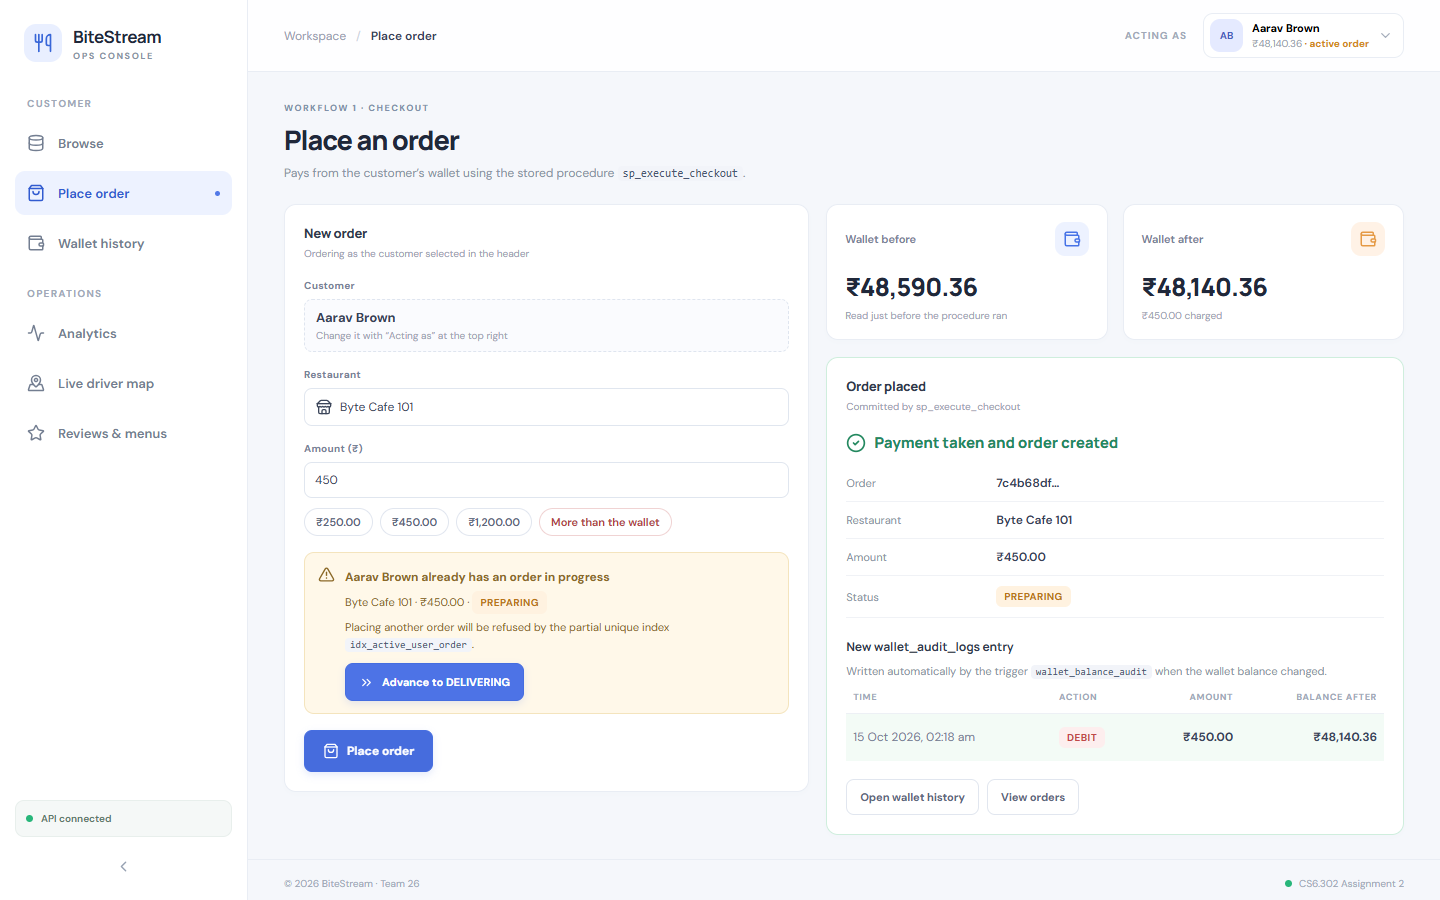
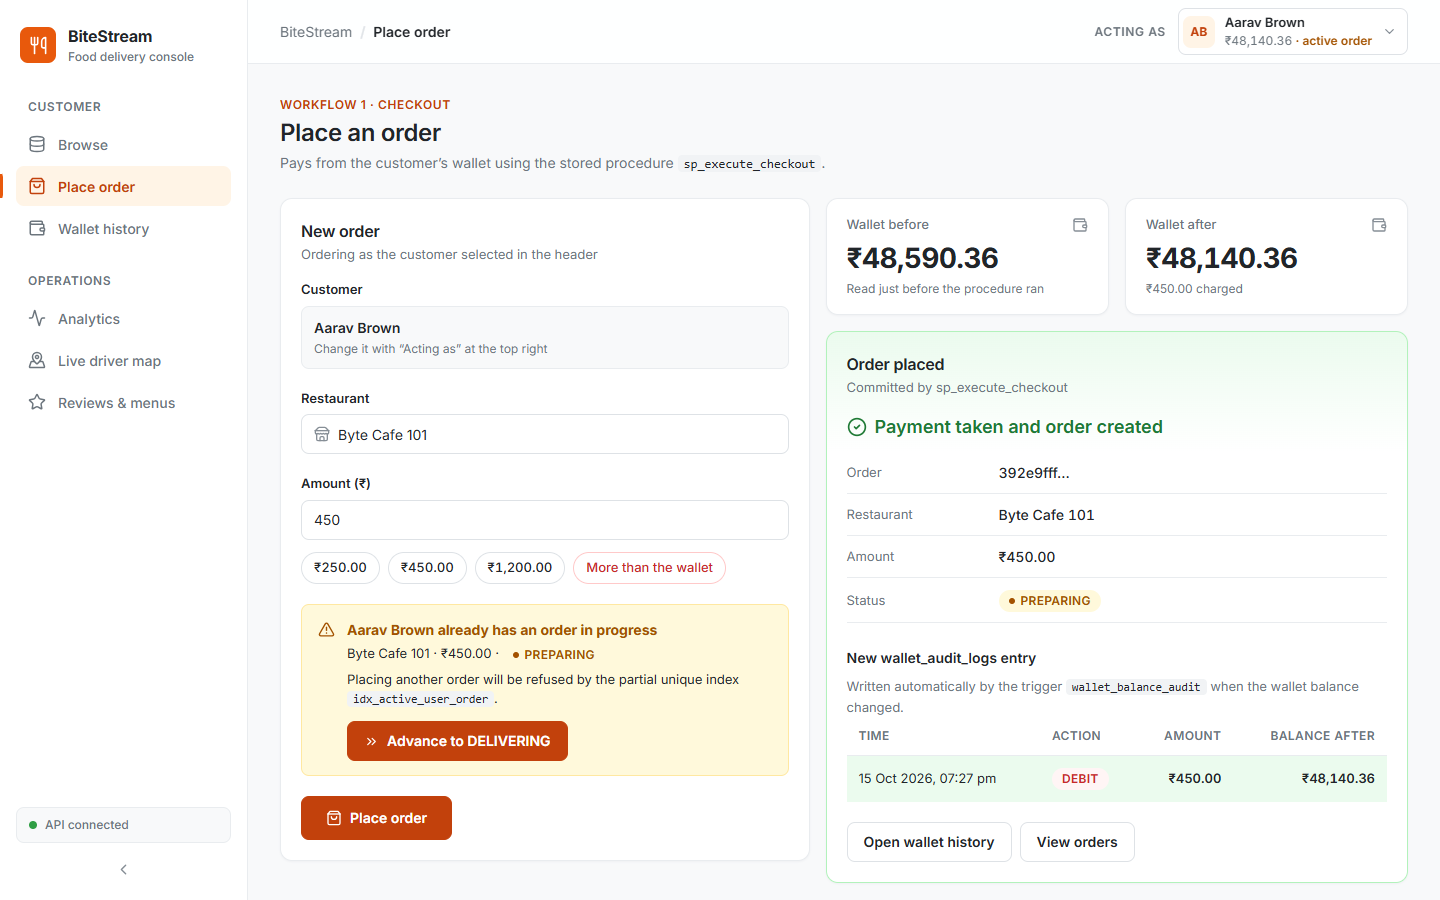
docs: style guide, change log, handover rows, screenshots for UI upgrade (Nisarg)
- style_guide.md rewritten for the token system (contrast-adjusted palette)
- README: screen descriptions, screenshot gallery, 23 tests, change-log rows
  for sql/05, mongo/02 and mongo_seeder.py, Nisarg's contribution
- handover_note: rows #5, #7, #10, #12 done; #6 (ping simulator) not done
- api_endpoints.md updated to the new parameters and response shapes
- 9 fresh screenshots (1440 px and 390 px); analytics grid top-aligned,
  map opens one zoom level closer

diff --git a/web/src/pages/DriverMap.jsx b/web/src/pages/DriverMap.jsx
@@ -176,7 +176,7 @@ export default function DriverMap() {
 
         <Panel title="Map" subtitle="OpenStreetMap · click anywhere to move the origin" className="leaflet-panel">
           <div className="leaflet-frame">
-            <MapContainer center={center} zoom={13} scrollWheelZoom className="leaflet-map" ref={setMap}>
+            <MapContainer center={center} zoom={14} scrollWheelZoom className="leaflet-map" ref={setMap}>
               <Recenter center={center} />
               <PickOnClick onPick={({ lat, lng }) => setOrigin({ lat, lng, label: 'pinned location', restaurant: null })} />
               <TileLayer

diff --git a/web/src/styles.css b/web/src/styles.css
@@ -165,7 +165,7 @@ h1, h2, h3 { color: var(--text); }
 }
 .stat-detail { margin-top: 4px; font-size: var(--fs-caption); color: var(--text-muted); }
 
-.analytics-grid { display: grid; grid-template-columns: minmax(0, 1.4fr) minmax(0, 1fr); gap: var(--space-2); margin-bottom: var(--space-2); }
+.analytics-grid { display: grid; grid-template-columns: minmax(0, 1.4fr) minmax(0, 1fr); gap: var(--space-2); margin-bottom: var(--space-2); align-items: start; }
 .panel {
   min-width: 0; padding: 20px;
   background: var(--surface); border: 1px solid var(--border); border-radius: var(--radius-lg); box-shadow: var(--shadow);

diff --git a/README.md b/README.md
@@ -33,15 +33,23 @@ A web front end for the inherited **BiteStream** food-delivery backend (PostgreS
 | 1 | **Browse** | `#/browse` | Customers, restaurants and orders with server-side pagination, search, filters and a detail drawer per record; "Advance status" on orders |
 | 2 | **Place order** (Workflow 1) | `#/order` | Calls `sp_execute_checkout`. Shows the wallet before/after, a friendly reason when the order is refused (insufficient balance, or an order already in progress) and the new `wallet_audit_logs` row written by the trigger |
 | 3 | **Wallet history** (Audit) | `#/wallet` | Read-only `wallet_audit_logs` for one customer, with a date filter, opening/closing totals and a running balance |
-| 4 | **Analytics** (Workflow 2 + materialized view) | `#/analytics` | 7-day moving-average revenue, `DENSE_RANK()` ranking table, materialized-view summary with refresh |
-| 5 | **Live driver map** (Workflow 3) | `#/map` | `$geoNear` around a selectable origin, 5 km radius, list sorted by distance, polling every 10 s |
-| 6 | **Reviews & menus** (Workflow 4) | `#/reviews` | `$facet` rating distribution, top tags, average rating, plus the `Menus` catalog |
+| 4 | **Analytics** (Workflow 2 + materialized view) | `#/analytics` | Per-restaurant chart of 30 days of daily revenue with the 7-day moving average; paginated `DENSE_RANK()` ranking (click a row to chart it); materialized-view totals with a stored "last refreshed" time and a Refresh button |
+| 5 | **Live driver map** (Workflow 3) | `#/map` | `$geoNear` around a real restaurant (or any point clicked on the map), 5 km radius, one row per driver sorted by distance, polling every 10 s |
+| 6 | **Reviews & menus** (Workflow 4) | `#/reviews` | `$facet` rating distribution, top tags and average rating for one restaurant or all of them, plus that restaurant's `Menus` document as an accordion (category → items → add-ons) |
 
 **Demo user switching:** the header's **"Acting as"** picker chooses the customer (no login). It shows their wallet balance and whether they have an active order, and the choice is remembered across reloads.
 
+**Design:** one token-based design system (`web/src/theme.css`) following [docs/design/style_guide.md](docs/design/style_guide.md): warm orange brand, Inter, WCAG-AA text contrast, and a burger drawer on phones.
+
 ![Place order: success with the trigger-written audit row](docs/screenshots/place_order_desktop.png)
 
-<img src="docs/screenshots/browse_mobile.png" alt="Browse on a phone" width="260">
+| Analytics | Live driver map |
+|---|---|
+| ![Analytics](docs/screenshots/analytics_desktop.png) | ![Live driver map](docs/screenshots/driver_map_desktop.png) |
+| **Reviews & menus** | **Wallet history** |
+| ![Reviews & menus](docs/screenshots/reviews_menus_desktop.png) | ![Wallet history](docs/screenshots/wallet_history_desktop.png) |
+
+<img src="docs/screenshots/browse_mobile.png" alt="Browse on a phone" width="220"> <img src="docs/screenshots/analytics_mobile.png" alt="Analytics on a phone" width="220"> <img src="docs/screenshots/nav_drawer_mobile.png" alt="Navigation drawer on a phone" width="220">
 
 ## 2. Running it
 
@@ -139,7 +147,7 @@ Then start the API and web app as in steps 3–4 (`DATABASE_URL=postgresql://pos
 | Layer | Choice | Why |
 |---|---|---|
 | Front end | **React 18 + Vite** | Component-based screens, instant dev server, nothing to configure |
-| Styling | **Plain CSS** (`styles.css`, `screens.css`) | One small, consistent design system without a UI framework to learn; easy to restyle from the Figma design |
+| Styling | **Plain CSS with design tokens** (`theme.css` → `styles.css`, `screens.css`; `theme.js` for charts and the map) | One small, consistent design system without a UI framework to learn; every colour, size and radius comes from one token file |
 | Charts | **Recharts** | Simple React API for the line/bar charts |
 | Map | **Leaflet + react-leaflet + OpenStreetMap tiles** | Free, no API key or billing account (Google Maps / Mapbox need one) |
 | Icons | **lucide-react** | Consistent, tree-shaken SVG icons |
@@ -177,13 +185,16 @@ cd api
 npm test
 ```
 
-There are 14 integration tests in `api/test/transaction.test.js`. They run against the seeded database, because the behaviour under test lives in the database:
+There are 23 integration tests: 14 in `api/test/transaction.test.js` and 9 in `api/test/analytics_map_reviews.test.js`. They run against the seeded PostgreSQL and MongoDB databases, because the behaviour under test lives in the databases:
 
 | Area | Cases |
 |---|---|
 | Workflow 1 | success (balance debited, DEBIT audit row from the trigger); second active order blocked (409, wallet and audit unchanged); advance PREPARING → DELIVERING → DELIVERED then re-order succeeds; insufficient balance (422, nothing charged); zero/negative/malformed amounts (400); the procedure itself rejects negatives; unknown restaurant/customer (404) |
 | Browse | server-side pagination, page-size cap, search + filter |
 | Audit | running balance equals `balance_after` for every row; date range filtering; inclusive end date; inverted range rejected |
+| Workflow 2 | the last day's 7-day average equals an independent SQL average of that day and the 6 before it; rankings paginated and `DENSE_RANK` never decreases; `REFRESH` moves `refreshed_at` forward; malformed (400) and unknown (404) restaurant |
+| Workflow 3 | one row per driver, sorted by distance, all within 5 km, at most 20; a far-away origin returns an empty list |
+| Workflow 4 | rating counts add up to the review total; the restaurant filter narrows the `$facet`; menu found / 404 `MENU_NOT_FOUND` / 400 for a malformed id |
 
 We focused the tests on the transaction path because it is where money moves and where the inherited code was broken. The tests place a few real orders for one customer and deliver them afterwards, so the data stays consistent.
 
@@ -217,6 +228,10 @@ Every change is marked `[Team 26]` in the code. The full reasoning and evidence 
 | `sql/04_stored_procedures.sql` | Reject `amount <= 0` (SQLSTATE 22023); `User does not exist` uses SQLSTATE P0002 | A negative amount **credited** the wallet |
 | `sql/07_fixes_transactions.sql` (new) | `sp_advance_order_status`; indexes `idx_wallet_audit_user_ts`, `idx_orders_status_created_at` | Status changes needed by the PDF; audit/browse queries no longer scan the whole table |
 | `data_generation/postgres_seeder.py` | Restaurants moved to the driver-ping area; ~20% active orders; consistent wallet chains; `TRUNCATE` before insert; refresh the materialized view after seeding | Map returned 0 drivers; 96.8% of users could not order; audit trail was random; re-seeding doubled the data; the view was empty |
+| `sql/05_materialized_views.sql` | `NOW() AS refreshed_at` column in `restaurant_completed_revenue` | PostgreSQL stores no refresh time; the Analytics screen must show "last refreshed" |
+| `mongo/02_workflow3_geonear.js` | After `$geoNear`: group pings per driver (latest ping and its distance), sort by distance, `$limit: 20` (was `$limit: 1`) | Returned one ping; a list repeated the same driver (62,770 pings from 7,038 drivers within 5 km) |
+| `data_generation/mongo_seeder.py` | Reads restaurants from PostgreSQL: `Reviews`/`Menus` use the restaurant UUID; one menu per restaurant with optional add-ons, dietary tags, spice level and combos; ratings and tags vary by restaurant; `random.seed(42)`. Driver pings unchanged | Integer ids 1–100 matched no restaurant and there were only 2 menus; uniform random reviews made every chart bar equal |
+| `sql/06_window_analytics.sql` | Unchanged. The API reuses steps 1–4 for one restaurant's 30-day series and the full query (paginated) for the ranking | The original returns only the latest day per restaurant, which cannot be charted over time |
 
 ## 8. Project structure
 
@@ -245,6 +260,9 @@ Every change is marked `[Team 26]` in the code. The full reasoning and evidence 
         ├── components/       # Sidebar, ActorPicker, RestaurantPicker, AdvanceButton, Panel, StatCard, ui.jsx
         ├── context/          # "Acting as" customer
         ├── services/api.js   # API client
+        ├── theme.css         # design tokens (colours, type, spacing); theme.js mirrors colours for charts/map
+        ├── styles.css        # shell, shared components, Analytics / Map / Reviews
+        ├── screens.css       # Browse, Place order, Wallet history
         └── router.js         # hash routing
 ```
 
@@ -254,7 +272,7 @@ Team 26. The allocation sheet lists four members; **Jyotiraditya Kumar is no lon
 
 | Member | Design | Code | Documentation |
 |---|---|---|---|
-| **Nisarg Bhojani** | Users, wireframes, Figma design system, visual QA | `TODO` | Design docs, screenshots, demo video |
+| **Nisarg Bhojani** | Users, wireframes, Figma design system, visual QA | Design-token system (`theme.css`, `theme.js`) and restyle of all six screens (`styles.css`, `screens.css`), phone navigation drawer; UI-upgrade data fixes: per-restaurant 7-day series and stored `refreshed_at` (Analytics), one row per driver around real restaurants (Map), Mongo seeder linked to PostgreSQL restaurants and menu accordion (Reviews & menus), with 9 integration tests | Style guide, [UI upgrade spec](docs/design/2026-10-15-ui-upgrade-design.md) and [plan](docs/design/2026-10-15-ui-upgrade-plan.md), screenshots, demo video |
 | **Kodavali Sai** | `TODO` | API + screens: Analytics, Live driver map, Reviews & menus | `TODO` |
 | **Mohit Tripathi** | Wireframes for Browse / Place order / Wallet | Inherited-DB fixes (checkout procedure, status procedure, indexes, seeder), API + screens: Browse, Place order, Wallet history, "Acting as" picker, tests | Handover note, API endpoints, README |
 | Jyotiraditya Kumar | – | – | – (left the college) |

diff --git a/docs/design/style_guide.md b/docs/design/style_guide.md
@@ -1,47 +1,87 @@
 # Style Guide
 
-Built on **Mantine** components with a custom theme so every screen looks the same.
+**Owner:** Nisarg Bhojani. The design system is plain CSS built on design tokens:
+
+- **`web/src/theme.css`** holds every token as a CSS custom property, and is the single source of truth.
+- **`web/src/theme.js`** mirrors the colour values for Recharts and Leaflet, which cannot read CSS variables.
+- **`web/src/styles.css`** (shell, shared components, Analytics/Map/Reviews) and **`web/src/screens.css`** (Browse, Place order, Wallet) use only the tokens.
+
+Mantine was planned at first and dropped: plain CSS kept the bundle small and needed no component rewrite. The UI upgrade spec is [2026-10-15-ui-upgrade-design.md](2026-10-15-ui-upgrade-design.md).
 
 ## Colours
 
+The palette follows Mantine's colour scale. Three values were adjusted so text passes WCAG AA (4.5:1).
+
 | Token | Hex | Used for |
 |---|---|---|
-| `primary` | `#E8590C` (orange 8) | Primary buttons, active nav item, chart main series |
-| `primary-light` | `#FFF4E6` | Selected rows, highlighted cards |
-| `success` | `#2F9E44` | Successful checkout, CREDIT, DELIVERED badge |
-| `danger` | `#E03131` | Errors, DEBIT, insufficient balance |
-| `warning` | `#F08C00` | PREPARING badge, "already has active order" |
-| `info` | `#1971C2` | DELIVERING badge, map origin marker |
-| `text` | `#212529` | Body text |
-| `muted` | `#868E96` | Secondary text, table captions |
-| `surface` | `#FFFFFF` / `#F8F9FA` | Cards / page background |
+| `--brand` | `#E8590C` | Accent fills: active nav marker, chart series, map origin and radius, focus ring |
+| `--brand-strong` | `#C2410C` | Primary buttons and orange text (5.2:1 on white; `#E8590C` is only 3.6:1) |
+| `--brand-soft` | `#FFF4E6` | Active nav item, selected table row, avatar |
+| `--success` / `-strong` / `-soft` | `#2F9E44` / `#1F7A35` / `#EBFBEE` | CREDIT, DELIVERED, successful checkout, dietary tags |
+| `--danger` / `-strong` / `-soft` | `#E03131` / `#C92A2A` / `#FFF5F5` | DEBIT, errors, insufficient balance, spice level |
+| `--warning` / `-strong` / `-soft` | `#F08C00` / `#A35200` / `#FFF9DB` | PREPARING, "already has an active order", star ratings |
+| `--info` / `-strong` / `-soft` | `#1971C2` / `#1864AB` / `#E7F5FF` | DELIVERING, drivers on the map |
+| `--text` | `#212529` | Body text |
+| `--text-muted` | `#6C757D` | Secondary text (4.7:1; the first draft's `#868E96` is 3.3:1 and failed) |
+| `--text-faint` | `#868E96` | Icons and decoration only, never text |
+| `--surface` / `--page` | `#FFFFFF` / `#F8F9FA` | Cards / page background |
+| `--border` | `#E9ECEF` | Card, table and input borders |
 
-Order status badges: PREPARING = warning, DELIVERING = info, DELIVERED = success.
+**Status pairs:** each status uses its `-strong` colour for text on its `-soft` background, so every badge passes 4.5:1.
+
+- PREPARING = warning
+- DELIVERING = info
+- DELIVERED = success
+- DEBIT = danger
+- CREDIT = success
 
 ## Typography
 
-- Font: **Inter** (Google Fonts, free), fallback `system-ui, sans-serif`.
-- Sizes: page title 24/600, section title 18/600, body 14/400, caption 12/400.
-- Money is always right-aligned, tabular figures, formatted `₹1,234.50`.
+- **Font:** Inter (Google Fonts, free), fallback `system-ui, sans-serif`.
+- **Scale:**
+  - page title 24/600
+  - section title 18/600
+  - card title 16/600
+  - body 14/400
+  - table 13/400
+  - caption 12/500
+  - nothing smaller than 12 px
+- **Stat values:** 28/700 (22 on phones).
+- **Money:** `tabular-nums`, right-aligned in tables, formatted `₹1,234.50` (Indian digit grouping via `en-IN`).
 
 ## Spacing and shape
 
-- 8 px spacing grid (8 / 16 / 24 / 32).
-- Card radius 8 px, light border `#E9ECEF`, no heavy shadows.
-- Max content width 1200 px; on phones (< 768 px) the sidebar collapses into a burger menu and tables scroll horizontally.
+- **Spacing:** 8 px grid (`--space-1` to `--space-4` = 8/16/24/32).
+- **Radius:** `--radius` 8 px (inputs, buttons, badges) and `--radius-lg` 12 px (cards).
+- **Borders and shadows:** 1 px `--border`, almost no shadow. Only menus and drawers float, with `--shadow-pop`.
+- **Content width:** max 1440 px. Form controls are 40 px tall. Every focusable element shows an orange focus ring.
+
+## Identity
+
+- **Logo:** a solid orange square holding a utensils icon, plus the "BiteStream" wordmark in Inter 600 with the tagline "Food delivery console".
+- **Charts:** orange bars and lines on light grey gridlines.
+- **Map:** an orange origin pin with an orange dashed 5 km circle; drivers are blue dots.
+- **Stat cards:** a small monochrome icon instead of coloured tiles.
+
+## Responsive
+
+| Width | Layout |
+|---|---|
+| ≥ 1200 px | Sidebar (248 px) + content; 4 stat cards per row; split layouts side by side |
+| 1024–1199 px | 2 stat cards per row; chart and table stack |
+| 768–1023 px | Sidebar becomes a 76 px icon rail; the map list moves below the map |
+| < 768 px | Sidebar hidden. A top bar has a burger button that opens the navigation as a drawer (Esc or a backdrop click closes it). Cards stack, tables scroll sideways, segmented tabs fill the width. No horizontal page scroll at 390 px. |
 
 ## Reusable components
 
-| Component | Purpose |
-|---|---|
-| `AppShell` (header + sidebar) | Navigation, role switch, actor picker, API health dot |
-| `ActorPicker` | Searchable select of users; shows wallet balance and an "active order" badge |
-| `DataTable` | Server-side paginated table with search box, column filters, row click → detail drawer |
-| `DetailDrawer` | Right-side panel showing one record |
-| `StatCard` | Big number + label (+ optional delta) |
-| `StatusBadge` | Coloured order status |
-| `MoneyText` | Formatted currency, green/red for credit/debit |
-| `LoadingState` | Skeleton rows/cards (never a blank page) |
-| `EmptyState` | Icon + message + optional action ("No orders match these filters") |
-| `ErrorState` | Message + "Try again" button; friendly text from API `error.message` |
-| `ChartCard` | Card wrapper with title, subtitle and loading/empty/error handling for charts |
+| Component | File | Purpose |
+|---|---|---|
+| App shell, `Sidebar` | `App.jsx`, `components/Sidebar.jsx` | Navigation, brand, API status, phone drawer |
+| `ActorPicker` | `components/ActorPicker.jsx` | "Acting as" customer with wallet balance and active-order flag |
+| `RestaurantPicker` | `components/RestaurantPicker.jsx` | Searchable restaurant select used on Place order, Analytics, Map and Reviews |
+| `Panel`, `StatCard` | `components/Panel.jsx`, `components/StatCard.jsx` | Card with heading; big number + label |
+| `StatusBadge`, `ActionBadge` | `components/ui.jsx` | Order status and DEBIT/CREDIT pills |
+| `Pagination`, `SkeletonRows`, `Drawer`, `DetailList` | `components/ui.jsx` | Server-side paging, loading rows, record detail |
+| `EmptyState`, `ErrorBanner` | `components/ui.jsx` | Never a blank page; friendly error with Retry |
+| Segmented control | `.tabs` / `.tab` | Browse entity tabs, Reviews scope |
+| Menu accordion | `.menu-accordion` (Reviews) | Category → items → add-ons; optional fields only when present |

diff --git a/docs/api_endpoints.md b/docs/api_endpoints.md
@@ -86,16 +86,16 @@ Reads the wallet balance, runs `CALL sp_execute_checkout($1, $2, $3)` as a **pla
 
 | Method & path | Returns | DB object |
 |---|---|---|
-| `GET /analytics/moving-average` | `{ data: [ { revenue_date, moving_average_7_day } ] }` | Workflow 2 window query (`sql/06_window_analytics.sql`) |
-| `GET /analytics/rankings` | `{ data: [ { restaurant_id, restaurant_name, order_date, daily_revenue, moving_average_7_day, revenue_rank } ] }` | Workflow 2 query with `DENSE_RANK()` |
-| `GET /analytics/summary` | `{ data: { total_revenue, orders_processed, restaurants, average_order_value, last_refreshed } }` | `restaurant_completed_revenue` |
-| `POST /analytics/refresh` | `{ success, lastRefreshed }` | `CALL refresh_restaurant_completed_revenue()` (`REFRESH … CONCURRENTLY`) |
+| `GET /analytics/moving-average?restaurantId=<uuid>` | `{ data: [ { order_date: 'YYYY-MM-DD', daily_revenue, moving_average_7_day } ] (last 30 days), restaurant: { id, name } }`; 400 `INVALID_ID`, 404 `RESTAURANT_NOT_FOUND` | Workflow 2 steps 1–4 (`sql/06_window_analytics.sql`) for one restaurant |
+| `GET /analytics/rankings?page=&pageSize=` | `{ data: [ { restaurant_id, restaurant_name, order_date, daily_revenue, moving_average_7_day, revenue_rank } ], page, pageSize, total }` | Workflow 2 query with `DENSE_RANK()`, paginated |
+| `GET /analytics/summary` | `{ data: { total_revenue, orders_processed, restaurants, average_order_value, refreshed_at } }` | `restaurant_completed_revenue` (`refreshed_at` column) |
+| `POST /analytics/refresh` | `{ data: { refreshed_at, duration_ms } }` | `CALL refresh_restaurant_completed_revenue()` (`REFRESH … CONCURRENTLY`) |
 
 ## 6. Map — Workflow 3 (`api/src/routes/map.js`)
 
 | Method & path | Query | Returns | DB object |
 |---|---|---|---|
-| `GET /map/nearby` | `lat`, `lng`, `radiusKm` (≤ 5) | `{ origin, radiusKm, data: [ { driver_id, active, location, distanceMeters, created_at } ] }` sorted by distance | MongoDB `DriverPings` `$geoNear` (`2dsphere`), `query: { active: true }` |
+| `GET /map/nearby` | `lat`, `lng`, `radiusKm` (≤ 5) | `{ origin, radiusKm, data: [ { driver_id, location, distanceMeters, created_at } ] }`: one row per driver (latest ping), nearest first, at most 20 | MongoDB `DriverPings` `$geoNear` (`2dsphere`), `query: { active: true }` |
 
 The web app polls this every 10 s so new pings appear without a page reload.
 
@@ -103,8 +103,8 @@ The web app polls this every 10 s so new pings appear without a page reload.
 
 | Method & path | Returns | DB object |
 |---|---|---|
-| `GET /reviews/analytics` | `{ data: { averageRating, totalReviews, distribution[], topTags[], restaurants[] } }` | MongoDB `Reviews` `$facet` |
-| `GET /reviews/menus` | `{ data: [ menu documents ] }` | MongoDB `Menus` |
+| `GET /reviews/analytics?restaurantId=` (optional) | `{ data: { averageRating, totalReviews, distribution[], topTags[], restaurants[] } }`; 400 `INVALID_ID` | MongoDB `Reviews` `$facet` (`$match` on `restaurant_id` first when given) |
+| `GET /reviews/menus?restaurantId=<uuid>` | `{ data: menuDocument }`; 404 `MENU_NOT_FOUND`, 400 `INVALID_ID`. Without `restaurantId`: `{ data: [ up to 100 menus ] }` | MongoDB `Menus` |
 
 ## 8. Misc
 

diff --git a/docs/handover_note.md b/docs/handover_note.md
@@ -43,14 +43,14 @@ Every change is marked `[Team 26]` in the code and listed in the README change l
 | Reject `p_total_amount <= 0` inside the procedure (SQLSTATE 22023) and in the API | `sql/04_stored_procedures.sql`, `api/src/routes/checkout.js` | #2 | ✅ Done, verified |
 | Map SQLSTATE `P0001` / `23505` / `23503` / `P0002` / `55000` to friendly API errors | `api/src/errors.js` | #3 | ✅ Done, verified |
 | Restaurants seeded inside the driver-ping area (lat 17.36–17.46, lng 78.33–78.43) | `data_generation/postgres_seeder.py` | #4 | ✅ Done (PostgreSQL side) |
-| Seed `Menus`/`Reviews` with PostgreSQL restaurant UUIDs | `data_generation/mongo_seeder.py` | #5 | ⏳ Pending (Sai) |
-| Ping simulator so the map is not emptied by the 2-hour TTL | `data_generation/` or `api/` | #6 | ⏳ Pending (Sai) |
-| `$geoNear` → one row per driver → sort by distance | `mongo/02_workflow3_geonear.js` + `api/src/routes/map.js` | #7 | ⏳ Pending (Sai) |
+| Seed `Menus`/`Reviews` with PostgreSQL restaurant UUIDs | `data_generation/mongo_seeder.py` | #5 | ✅ Done, verified: every restaurant has a menu; reviews filter per restaurant |
+| Ping simulator so the map is not emptied by the 2-hour TTL | `data_generation/` or `api/` | #6 | ⏳ Not done: re-run `mongo_seeder.py` before a demo if the map is empty |
+| `$geoNear` → one row per driver → sort by distance | `mongo/02_workflow3_geonear.js` + `api/src/routes/map.js` | #7 | ✅ Done, verified: 20 distinct drivers, sorted, ≤ 5 km |
 | New `sp_advance_order_status(order_id)`; seeder keeps only the newest order of ~20% of users active (2,069 of 10,000) | `sql/07_fixes_transactions.sql`, seeder | #8, #11 | ✅ Done, verified |
 | Audit logs generated as a consistent chain per user (orders become DEBITs, plus top-up CREDITs); wallet = end of chain | `data_generation/postgres_seeder.py` | #9 | ✅ Done: 10,000/10,000 wallets match, 0 chain breaks |
 | Materialized view refreshed at the end of seeding | `data_generation/postgres_seeder.py` | #10 (empty MV) | ✅ Done |
-| "Last refreshed" timestamp stored in the database | `sql/05_materialized_views.sql` | #10 (timestamp) | ⏳ Pending (Sai) |
-| Per-restaurant 7-day moving-average series | `sql/06_window_analytics.sql` + `api/src/routes/analytics.js` | #12 | ⏳ Pending (Sai) |
+| "Last refreshed" timestamp stored in the database | `sql/05_materialized_views.sql` | #10 (timestamp) | ✅ Done, verified: `refreshed_at` column, moves forward on refresh |
+| Per-restaurant 7-day moving-average series | `api/src/routes/analytics.js` (reuses `sql/06` steps 1–4 unchanged) | #12 | ✅ Done, verified: matches an independent 7-day average |
 | `idx_wallet_audit_user_ts` on `wallet_audit_logs(user_id, timestamp DESC)` and `idx_orders_status_created_at` | `sql/07_fixes_transactions.sql` | #13 | ✅ Done: audit query now uses an index scan |
 | `DROP TABLE … CASCADE`, `CREATE INDEX IF NOT EXISTS`, `DROP TRIGGER IF EXISTS`; seeder `TRUNCATE`s first | `sql/01`–`03`, seeder | #14 | ✅ Done: all scripts re-run cleanly |
 
